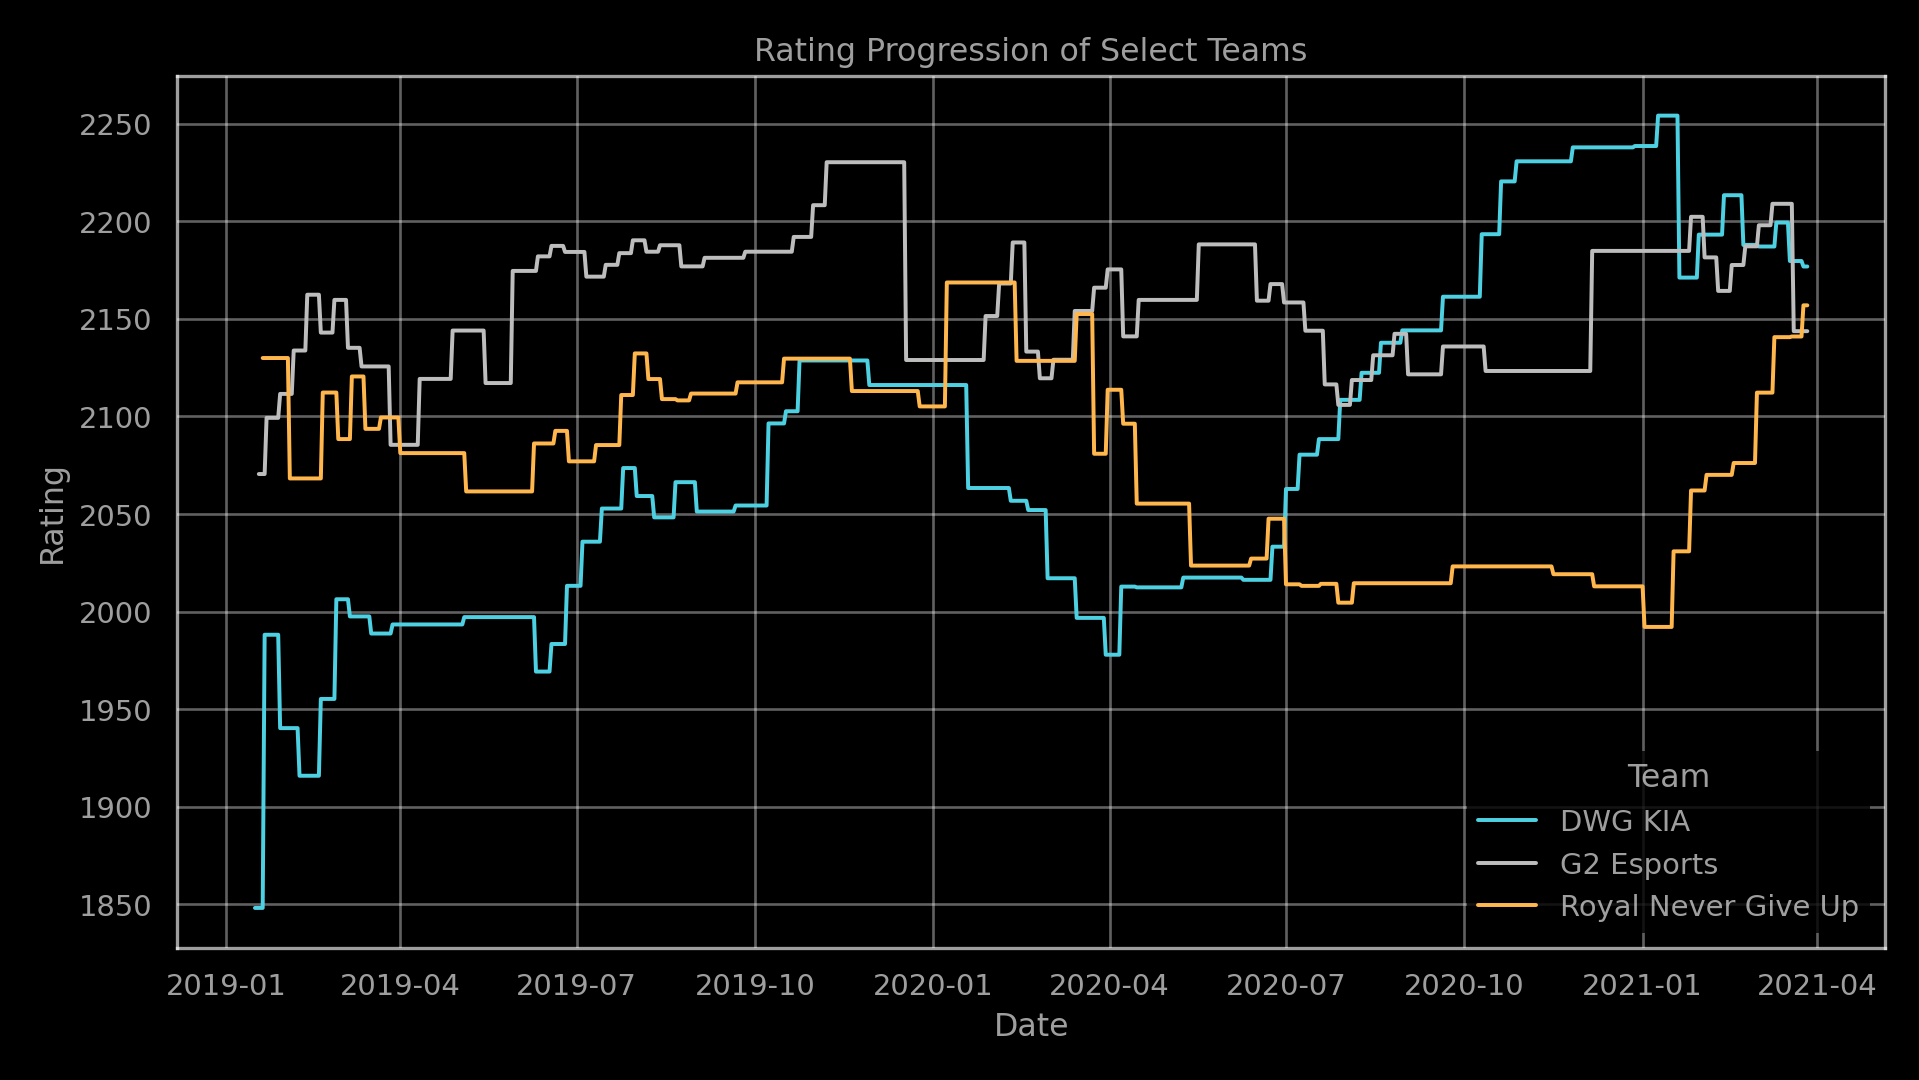
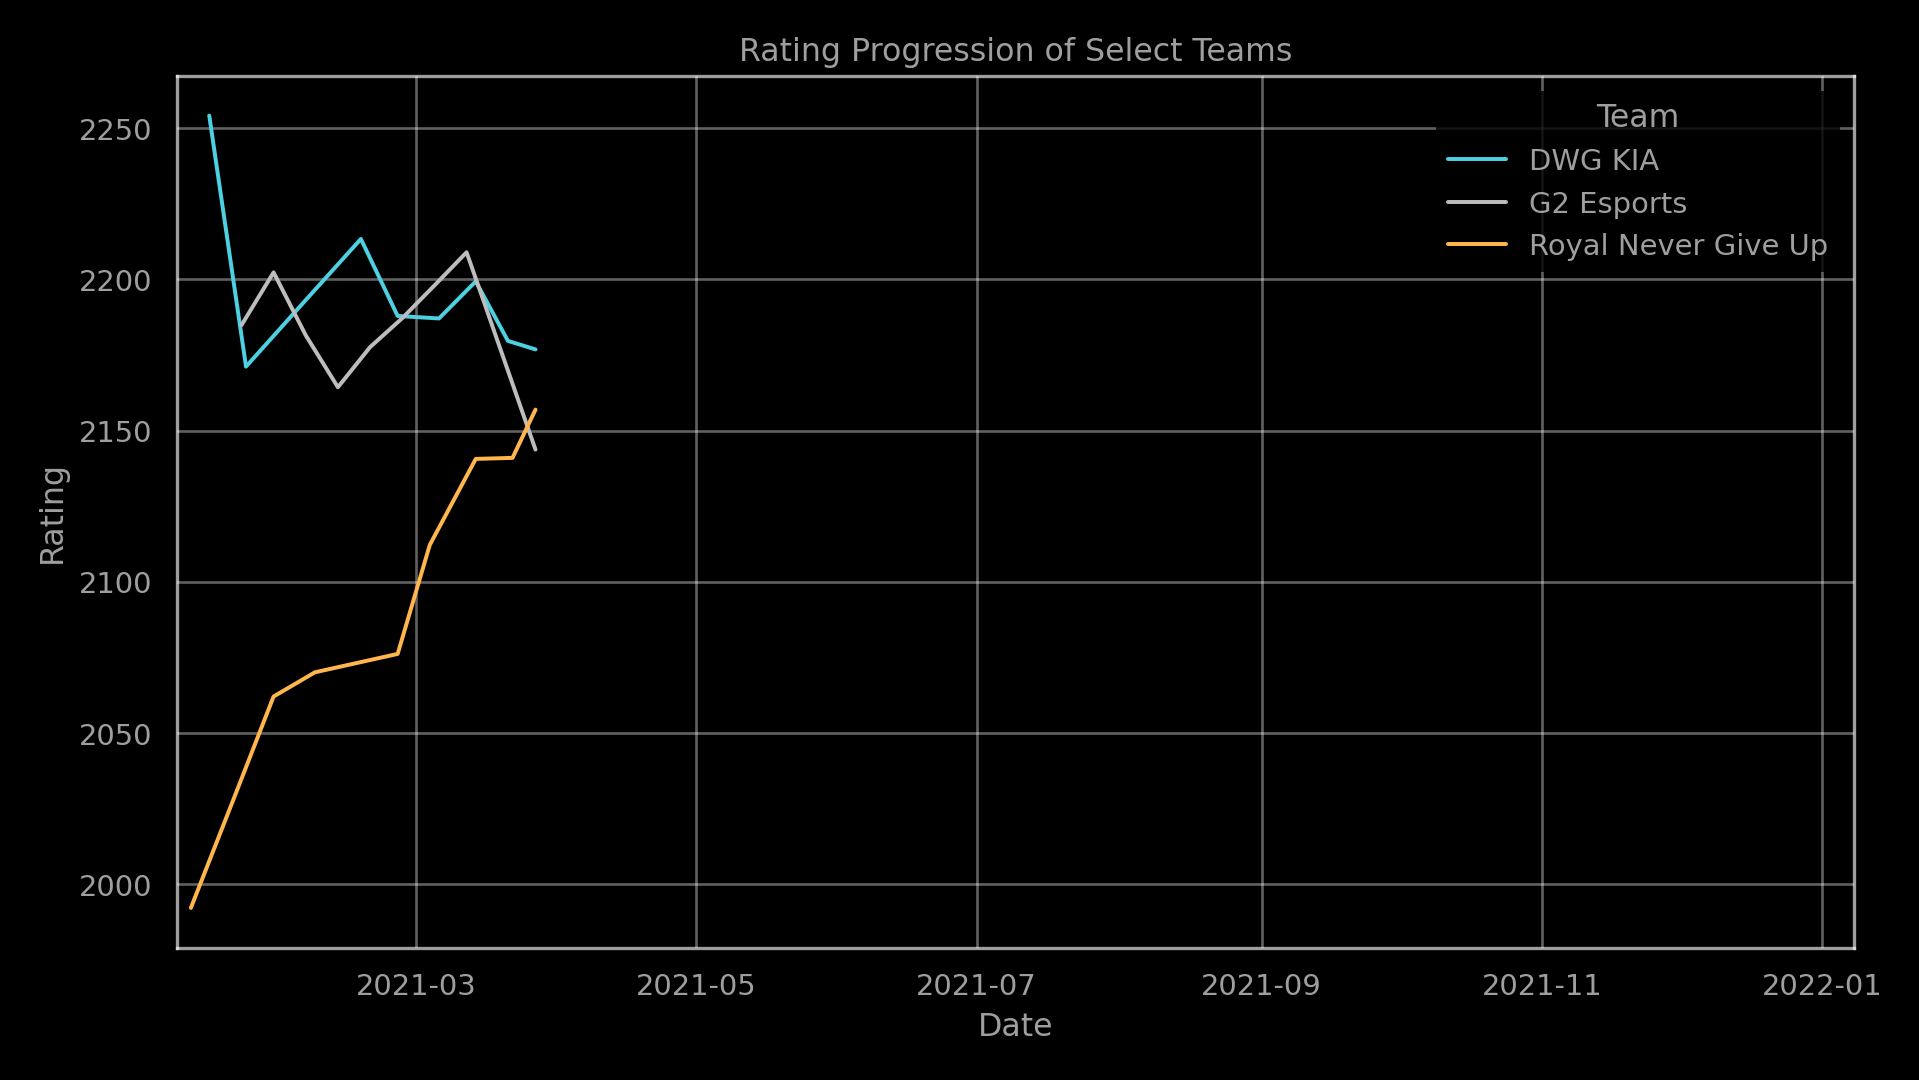
Only do rating progression in the current season.

diff --git a/main.py b/main.py
@@ -1,7 +1,8 @@
 from pro_rankings import *
 
 _line_output = "data/output_line.png"
-_line_plot_after = "2019-01-09 00:00:00"
+_line_plot_start = "2021-01-08 00:00:00"
+_line_plot_end = "2022-01-08 00:00:00"
 _bar_output = "data/output_bar.png"
 
 _plot_size = (10.11, 5.69)
@@ -70,9 +71,8 @@ if __name__ == "__main__":
             temp_df["Date"] = temp_df["Date"].apply(lambda dt: datetime(dt.year, dt.month, dt.day))
             temp_df.drop_duplicates(subset="Date", keep="last", inplace=True)
             temp_df.set_index("Date", inplace=True)
-            temp_df = temp_df[temp_df.index > pd.to_datetime(_line_plot_after)]
-            temp_df = temp_df.resample("D").interpolate(method="nearest")
-            # temp_df = temp_df.resample("D").interpolate(method="pchip")
+            temp_df = temp_df[temp_df.index > pd.to_datetime(_line_plot_start)]
+            temp_df = temp_df.resample("D").interpolate(method="linear")
             temp_df["Team"] = team_name
             new_df = new_df.append(temp_df)
         df = new_df
@@ -85,6 +85,8 @@ if __name__ == "__main__":
 
         g = sns.lineplot(x="Date", y="Rating", data=df,
                          hue="Team", palette=team_colors, hue_order=team_names)
+
+        plt.xlim(pd.to_datetime(_line_plot_start), pd.to_datetime(_line_plot_end))
 
         plt.title("Rating Progression of Select Teams")
         plt.tight_layout()
